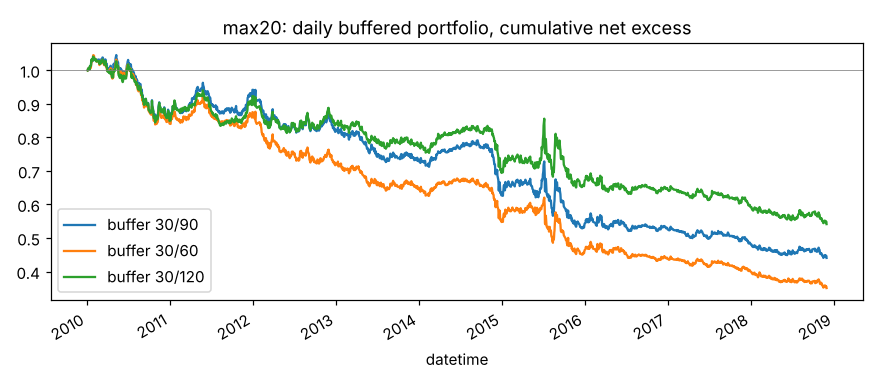
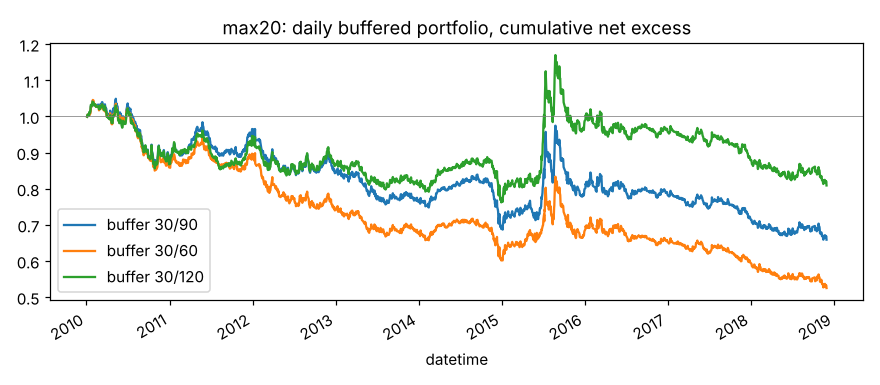
模拟组合的超额改为相对第二天能买进的股票，全体基准作参考
第二天涨停买不进的股票之后一天平均收益很高，算进基准会让基准每年高出约 4.7 个百分点，
对所有因子都一样。筛选门槛改用"能买进的股票"做基准；"全部有打分的股票"作为参考列。
重跑后的试验计入日志（配置多了 benchmark 字段）。

Claude-Session: https://claude.ai/code/session_016iw6nS8LHZX8bQ4bwCVjY3

diff --git a/scripts/run_single_factor.py b/scripts/run_single_factor.py
@@ -75,7 +75,7 @@ def main() -> None:
                 "single_factor",
                 {"factor": f.name, "expr": f.expr, "direction": res.direction, "market": args.market,
                  "segment": args.segment, "horizon": MAIN_HORIZON, "rule": rule.label,
-                 "neutralized": False, "data_version": _data_version()},
+                 "benchmark": "buyable", "neutralized": False, "data_version": _data_version()},
                 {"rank_ic": res.rank_ic[MAIN_HORIZON]["mean"], "t_nw": res.rank_ic[MAIN_HORIZON]["t_nw"],
                  **res.sim_summary[rule.label], "category": res.category},
             )
@@ -84,17 +84,18 @@ def main() -> None:
     summary.to_csv(out_dir / "summary.csv", float_format="%.6f")
     _write_index(summary, out_dir, context)
     print(summary[["category", f"rank_ic_{MAIN_HORIZON}d", f"t_nw_{MAIN_HORIZON}d", "sim_turnover",
-                   "sim_excess_ann", "sim_net_ann", "bottom_t"]].round(4).to_string())
+                   "sim_excess_ann", "sim_net_ann", "sim_net_ann_all", "bottom_t"]].round(4).to_string())
     print(f"试验日志里不同配置的单因子试验共 {count_unique(kind='single_factor')} 个")
 
 
 def _write_index(summary: pd.DataFrame, out_dir: Path, context: str) -> None:
     h = MAIN_HORIZON
     show = summary[["category", "direction", f"rank_ic_{h}d", f"icir_{h}d", f"t_nw_{h}d", "rank_ic_1d",
-                    "reversed_year_ratio", "monotonicity", "bottom_t", "sim_turnover", "sim_excess_ann", "sim_net_ann"]].copy()
+                    "reversed_year_ratio", "monotonicity", "bottom_t", "sim_turnover", "sim_excess_ann", "sim_net_ann",
+                    "sim_net_ann_all"]].copy()
     show.index = [f"[{n}]({n}.md)" for n in show.index]
     show.columns = ["分类", "方向", "RankIC", "ICIR", "t 值", "1天 RankIC", "反向年份占比", "单调性",
-                    "最低组 t 值", "日均换手", "年化超额", "扣成本后"]
+                    "最低组 t 值", "日均换手", "年化超额", "扣成本后", "扣成本后（全体基准）"]
     counts = summary["category"].value_counts()
     lines = [
         "# 单因子检验汇总",
@@ -110,8 +111,8 @@ def _write_index(summary: pd.DataFrame, out_dir: Path, context: str) -> None:
         "",
         show.to_markdown(floatfmt=".4f"),
         "",
-        f"日均换手、年化超额、扣成本后这三列来自缓冲 {PRIMARY_RULE.label} 的日频组合模拟；"
-        f"缓冲 {', '.join(r.label for r in COMPARISON_RULES)} 的结果在各因子的详细报告里。",
+        f"最后四列来自缓冲 {PRIMARY_RULE.label} 的日频组合模拟；缓冲 {', '.join(r.label for r in COMPARISON_RULES)} 的结果在各因子的详细报告里。",
+        "超额默认相对第二天能买进的股票（筛选门槛用这个）；最后一列相对所有有打分的股票，包括第二天涨停买不进的，作参考。",
         "",
     ]
     (out_dir / "README.md").write_text("\n".join(lines))

diff --git a/qt/simulate.py b/qt/simulate.py
@@ -9,6 +9,10 @@
 - 持有期间停牌、没有收益数据的，当天收益记为 0
 - 调出指数的股票当天卖出（数据里已经没有它这一行，按可以卖处理）
 
+超额有两种基准（见 docs/DECISIONS.md 变更记录）：
+- universe：当天有打分、且第二天能买进的股票等权平均。单因子筛选用这个，衡量"在买得到的股票里挑得准不准"
+- universe_all：当天所有有打分的股票等权平均，包括第二天涨停买不进的。作参考，更接近持有指数
+
 组合等权，不考虑权重漂移；最低 5 元佣金不计。这是因子检验用的近似，正式回测在第 5 个 PR。
 """
 
@@ -42,7 +46,7 @@ def simulate_buffer(
     can_sell: pd.Series,
     rule: BufferRule = PRIMARY_RULE,
 ) -> pd.DataFrame:
-    """返回逐日结果：portfolio、universe（有打分的股票等权平均）、excess、buys、sells、cost、net。
+    """返回逐日结果：portfolio、universe、universe_all、excess、excess_all、buys、sells、cost、net、net_all。
 
     score 越大越好；四个序列使用同一个 (datetime, instrument) 索引。
     """
@@ -70,13 +74,16 @@ def simulate_buffer(
 
         r = day["ret1"]
         portfolio = r.reindex(held).fillna(0.0).mean() if held else 0.0
-        universe = r.reindex(scored.index).mean()
+        universe = r.reindex(rank.index[buyable.to_numpy()]).mean()
+        universe_all = r.reindex(scored.index).mean()
         cost = (len(new) * buy_cost(d) + sells * sell_cost(d)) / rule.n_hold
-        rows.append((d, portfolio, universe, len(new), sells, cost))
+        rows.append((d, portfolio, universe, universe_all, len(new), sells, cost))
 
-    out = pd.DataFrame(rows, columns=["datetime", "portfolio", "universe", "buys", "sells", "cost"]).set_index("datetime")
-    out["excess"] = out["portfolio"] - out["universe"]
-    out["net"] = out["excess"] - out["cost"]
+    cols = ["datetime", "portfolio", "universe", "universe_all", "buys", "sells", "cost"]
+    out = pd.DataFrame(rows, columns=cols).set_index("datetime")
+    for suffix, base in (("", "universe"), ("_all", "universe_all")):
+        out[f"excess{suffix}"] = out["portfolio"] - out[base]
+        out[f"net{suffix}"] = out[f"excess{suffix}"] - out["cost"]
     return out
 
 

diff --git a/qt/report.py b/qt/report.py
@@ -94,6 +94,7 @@ def summary_row(res: FactorResult) -> dict:
         "sim_excess_ann": sim["excess_ann"],
         "sim_cost_ann": sim["cost_ann"],
         "sim_net_ann": sim["net_ann"],
+        "sim_net_ann_all": sim["net_ann_all"],
     }
     return row
 
@@ -117,8 +118,9 @@ def write_factor_report(res: FactorResult, factor: Factor, out_dir: Path, contex
 
     sim_table = pd.DataFrame(res.sim_summary).T
     sim_table.index = [f"缓冲 {k}" for k in sim_table.index]
-    sim_table = sim_table[["turnover", "excess_ann", "cost_ann", "net_ann", "net_t"]]
-    sim_table.columns = ["日均单边换手", "年化超额（扣成本前）", "年化成本", "年化超额（扣成本后）", "扣成本后 t 值"]
+    sim_table = sim_table[["turnover", "excess_ann", "cost_ann", "net_ann", "net_t", "net_ann_all"]]
+    sim_table.columns = ["日均单边换手", "年化超额（扣成本前）", "年化成本", "年化超额（扣成本后）", "扣成本后 t 值",
+                         "扣成本后（参考：全体基准）"]
 
     lines = [
         f"# {res.name}",
@@ -175,7 +177,8 @@ def write_factor_report(res: FactorResult, factor: Factor, out_dir: Path, contex
         "每天调仓，持仓 30 只等权；排名进前 30 才买，已持有的排名掉出缓冲线才卖。",
         "买不进（入场日停牌或涨停）跳过，卖不掉（入场日停牌或跌停）继续持有。",
         "成本：买入 0.125%，卖出佣金 + 印花税 + 滑点（docs/DECISIONS.md），最低 5 元佣金不计。",
-        "超额是相对当天有打分的全体股票等权平均，不是相对沪深300 指数。",
+        "超额默认相对当天有打分、且第二天能买进的股票等权平均（筛选门槛用这个）；",
+        "最后一列相对所有有打分的股票，包括第二天涨停买不进的，作参考。两者都不是相对沪深300 指数。",
         "",
         sim_table.to_markdown(floatfmt=".4f"),
         "",

diff --git a/qt/evaluate.py b/qt/evaluate.py
@@ -5,7 +5,8 @@
 - 日频 IC 和回归系数的标签互相重叠（5 天持有期，相邻两天有 4 天相同），所以 t 值用 Newey-West
   调整，滞后阶数取 持有期 - 1。
 - 分层每 5 个交易日一次、各期不重叠，只用来看信号质量和单调性。
-- 成本门槛用 qt/simulate.py 的日频缓冲组合（持仓 30、缓冲 30/90）。
+- 成本门槛用 qt/simulate.py 的日频缓冲组合（持仓 30、缓冲 30/90），超额相对第二天能买进的股票；
+  相对全部有打分股票的超额作参考。
 - 方向：先按方向把因子统一成"越大越好"，再算分层和组合。
 - IC、回归、分层只用能买入的样本；组合模拟另外处理买不进、卖不掉。
 """
@@ -116,6 +117,8 @@ def simulation_summary(sim: pd.DataFrame, rule: BufferRule) -> dict[str, float]:
         "cost_ann": sim["cost"].mean() * TRADING_DAYS,
         "net_ann": sim["net"].mean() * TRADING_DAYS,
         "net_t": newey_west_t(sim["net"], lag=0),
+        "excess_ann_all": sim["excess_all"].mean() * TRADING_DAYS,
+        "net_ann_all": sim["net_all"].mean() * TRADING_DAYS,
         "turnover": turnover(sim, rule.n_hold).mean(),
     }
 

diff --git a/tests/test_simulate.py b/tests/test_simulate.py
@@ -60,3 +60,13 @@ def test_costs_and_excess():
     assert sim.loc[d0, "excess"] == pytest.approx(0.03 - 0.01)
     assert sim.loc[d1, "net"] == pytest.approx(0.03 - 0.01 - sim.loc[d1, "cost"])
     assert turnover(sim, 1).tolist() == [1.0]
+
+
+def test_benchmark_excludes_unbuyable_by_default():
+    score, _, ones = _panel({"A": [3], "B": [2], "C": [1]})
+    ret = pd.Series([0.0, 0.01, 0.09], index=score.index)  # C 第二天涨停买不进，之后又涨 9%
+    can_buy = ones.copy()
+    can_buy.loc[(slice(None), "C")] = False
+    sim = simulate_buffer(score, ret, can_buy, ones, BufferRule(1, 1))
+    assert sim["universe"].iloc[0] == pytest.approx(0.005)
+    assert sim["universe_all"].iloc[0] == pytest.approx(0.1 / 3)

diff --git a/reports/single_factor/csi300_train/README.md b/reports/single_factor/csi300_train/README.md
@@ -1,7 +1,7 @@
 # 单因子检验汇总
 
 - 样本：csi300 历史成分，train 段 2010-01-01 ~ 2018-11-29（段尾去掉 21 个交易日），2166 个交易日；能买入的样本占 94.0%；未做行业和市值中性化
-- 结果：打分因子 0 个，排雷因子 1 个，淘汰 6 个
+- 结果：打分因子 3 个，排雷因子 0 个，淘汰 4 个
 - 主指标：5 天持有期 RankIC，t 值经 Newey-West 调整（滞后 4 阶）
 - 打分因子：t 值 > 3；方向反了的年份不超过一半；按实际交易规则（每日调仓、持仓 30、缓冲 30/90）扣成本后做多超额 > 0
 - 排雷因子：t 值 > 3；方向反了的年份不超过一半；最低组年化超额 < 0 且 t 值 < -3。用法是剔除得分最差的股票，不参与打分
@@ -9,14 +9,15 @@
 - 入场日收盘涨跌幅 ≥ 9.5% 视为买不进，≤ -9.5% 视为卖不掉；对 20% 涨跌停的创业板和科创板偏保守
 - 还没有 ST 标记，ST 股没有剔除（沪深300 里很少）
 
-|                               | 分类     |   方向 |   RankIC |   ICIR |   t 值 |   1天 RankIC |   反向年份占比 |   单调性 |   最低组 t 值 |   日均换手 |   年化超额 |   扣成本后 |
-|:------------------------------|:---------|-------:|---------:|-------:|-------:|-------------:|---------------:|---------:|--------------:|-----------:|-----------:|-----------:|
-| [rev20](rev20.md)             | 淘汰     |     -1 |   0.0310 | 0.1473 | 3.9496 |       0.0262 |         0.0000 |   1.0000 |       -1.7287 |     0.0752 |     0.0584 |    -0.0081 |
-| [amt_ratio20](amt_ratio20.md) | 淘汰     |     -1 |   0.0038 | 0.0269 | 0.8612 |       0.0184 |         0.3333 |  -0.6000 |       -0.0111 |     0.2868 |    -0.1045 |    -0.3576 |
-| [vol20](vol20.md)             | 淘汰     |     -1 |   0.0288 | 0.1343 | 3.6079 |       0.0144 |         0.2222 |   0.1000 |       -0.7894 |     0.0165 |     0.0071 |    -0.0076 |
-| [max20](max20.md)             | 淘汰     |     -1 |   0.0309 | 0.1788 | 4.8362 |       0.0156 |         0.1111 |   0.4000 |       -2.1816 |     0.0362 |    -0.0568 |    -0.0889 |
-| [amihud20](amihud20.md)       | 淘汰     |      1 |   0.0081 | 0.0489 | 1.2364 |       0.0031 |         0.4444 |   0.7000 |       -1.1547 |     0.0074 |    -0.0299 |    -0.0365 |
-| [high52w](high52w.md)         | 淘汰     |      1 |   0.0137 | 0.0585 | 1.5104 |      -0.0003 |         0.2222 |   0.9000 |       -0.1601 |     0.0283 |     0.0324 |     0.0074 |
-| [pv_corr20](pv_corr20.md)     | 排雷因子 |     -1 |   0.0382 | 0.2648 | 6.9796 |       0.0181 |         0.0000 |   1.0000 |       -4.0551 |     0.0619 |     0.0412 |    -0.0136 |
+|                               | 分类     |   方向 |   RankIC |   ICIR |   t 值 |   1天 RankIC |   反向年份占比 |   单调性 |   最低组 t 值 |   日均换手 |   年化超额 |   扣成本后 |   扣成本后（全体基准） |
+|:------------------------------|:---------|-------:|---------:|-------:|-------:|-------------:|---------------:|---------:|--------------:|-----------:|-----------:|-----------:|-----------------------:|
+| [rev20](rev20.md)             | 打分因子 |     -1 |   0.0310 | 0.1473 | 3.9496 |       0.0262 |         0.0000 |   1.0000 |       -1.7287 |     0.0752 |     0.0990 |     0.0326 |                -0.0081 |
+| [amt_ratio20](amt_ratio20.md) | 淘汰     |     -1 |   0.0038 | 0.0269 | 0.8612 |       0.0184 |         0.3333 |  -0.6000 |       -0.0111 |     0.2868 |    -0.0607 |    -0.3137 |                -0.3576 |
+| [vol20](vol20.md)             | 打分因子 |     -1 |   0.0288 | 0.1343 | 3.6079 |       0.0144 |         0.2222 |   0.1000 |       -0.7894 |     0.0165 |     0.0531 |     0.0384 |                -0.0076 |
+| [max20](max20.md)             | 淘汰     |     -1 |   0.0309 | 0.1788 | 4.8362 |       0.0156 |         0.1111 |   0.4000 |       -2.1816 |     0.0362 |    -0.0101 |    -0.0422 |                -0.0889 |
+| [amihud20](amihud20.md)       | 淘汰     |      1 |   0.0081 | 0.0489 | 1.2364 |       0.0031 |         0.4444 |   0.7000 |       -1.1547 |     0.0074 |     0.0168 |     0.0102 |                -0.0365 |
+| [high52w](high52w.md)         | 淘汰     |      1 |   0.0137 | 0.0585 | 1.5104 |      -0.0003 |         0.2222 |   0.9000 |       -0.1601 |     0.0283 |     0.0763 |     0.0512 |                 0.0074 |
+| [pv_corr20](pv_corr20.md)     | 打分因子 |     -1 |   0.0382 | 0.2648 | 6.9796 |       0.0181 |         0.0000 |   1.0000 |       -4.0551 |     0.0619 |     0.0879 |     0.0331 |                -0.0136 |
 
-日均换手、年化超额、扣成本后这三列来自缓冲 30/90 的日频组合模拟；缓冲 30/60, 30/120 的结果在各因子的详细报告里。
+最后四列来自缓冲 30/90 的日频组合模拟；缓冲 30/60, 30/120 的结果在各因子的详细报告里。
+超额默认相对第二天能买进的股票（筛选门槛用这个）；最后一列相对所有有打分的股票，包括第二天涨停买不进的，作参考。

diff --git a/reports/single_factor/csi300_train/pv_corr20.md b/reports/single_factor/csi300_train/pv_corr20.md
@@ -6,13 +6,13 @@
 - 方向：-1（越小越好），依据：训练段实际 RankIC
 - 样本：csi300 历史成分，train 段 2010-01-01 ~ 2018-11-29（段尾去掉 21 个交易日），2166 个交易日；能买入的样本占 94.0%；未做行业和市值中性化
 
-## 结论：排雷因子
+## 结论：打分因子
 
 作为打分因子：
 
 - ✅ t 值 > 3
 - ✅ 方向反了的年份不超过一半
-- ❌ 按实际交易规则（30/90）扣成本后做多超额 > 0
+- ✅ 按实际交易规则（30/90）扣成本后做多超额 > 0
 
 作为排雷因子：
 
@@ -79,12 +79,13 @@
 每天调仓，持仓 30 只等权；排名进前 30 才买，已持有的排名掉出缓冲线才卖。
 买不进（入场日停牌或涨停）跳过，卖不掉（入场日停牌或跌停）继续持有。
 成本：买入 0.125%，卖出佣金 + 印花税 + 滑点（docs/DECISIONS.md），最低 5 元佣金不计。
-超额是相对当天有打分的全体股票等权平均，不是相对沪深300 指数。
+超额默认相对当天有打分、且第二天能买进的股票等权平均（筛选门槛用这个）；
+最后一列相对所有有打分的股票，包括第二天涨停买不进的，作参考。两者都不是相对沪深300 指数。
 
-|             |   日均单边换手 |   年化超额（扣成本前） |   年化成本 |   年化超额（扣成本后） |   扣成本后 t 值 |
-|:------------|---------------:|-----------------------:|-----------:|-----------------------:|----------------:|
-| 缓冲 30/90  |         0.0619 |                 0.0412 |     0.0547 |                -0.0136 |         -0.4137 |
-| 缓冲 30/60  |         0.0834 |                 0.0418 |     0.0736 |                -0.0318 |         -0.9628 |
-| 缓冲 30/120 |         0.0501 |                 0.0561 |     0.0443 |                 0.0118 |          0.3718 |
+|             |   日均单边换手 |   年化超额（扣成本前） |   年化成本 |   年化超额（扣成本后） |   扣成本后 t 值 |   扣成本后（参考：全体基准） |
+|:------------|---------------:|-----------------------:|-----------:|-----------------------:|----------------:|-----------------------------:|
+| 缓冲 30/90  |         0.0619 |                 0.0879 |     0.0547 |                 0.0331 |          1.0066 |                      -0.0136 |
+| 缓冲 30/60  |         0.0834 |                 0.0885 |     0.0736 |                 0.0149 |          0.4525 |                      -0.0318 |
+| 缓冲 30/120 |         0.0501 |                 0.1028 |     0.0443 |                 0.0585 |          1.7976 |                       0.0118 |
 
 ![sim](img/pv_corr20_sim.png)

diff --git a/reports/single_factor/csi300_train/rev20.md b/reports/single_factor/csi300_train/rev20.md
@@ -6,13 +6,13 @@
 - 方向：-1（越小越好），依据：文献
 - 样本：csi300 历史成分，train 段 2010-01-01 ~ 2018-11-29（段尾去掉 21 个交易日），2166 个交易日；能买入的样本占 94.0%；未做行业和市值中性化
 
-## 结论：淘汰
+## 结论：打分因子
 
 作为打分因子：
 
 - ✅ t 值 > 3
 - ✅ 方向反了的年份不超过一半
-- ❌ 按实际交易规则（30/90）扣成本后做多超额 > 0
+- ✅ 按实际交易规则（30/90）扣成本后做多超额 > 0
 
 作为排雷因子：
 
@@ -79,12 +79,13 @@
 每天调仓，持仓 30 只等权；排名进前 30 才买，已持有的排名掉出缓冲线才卖。
 买不进（入场日停牌或涨停）跳过，卖不掉（入场日停牌或跌停）继续持有。
 成本：买入 0.125%，卖出佣金 + 印花税 + 滑点（docs/DECISIONS.md），最低 5 元佣金不计。
-超额是相对当天有打分的全体股票等权平均，不是相对沪深300 指数。
+超额默认相对当天有打分、且第二天能买进的股票等权平均（筛选门槛用这个）；
+最后一列相对所有有打分的股票，包括第二天涨停买不进的，作参考。两者都不是相对沪深300 指数。
 
-|             |   日均单边换手 |   年化超额（扣成本前） |   年化成本 |   年化超额（扣成本后） |   扣成本后 t 值 |
-|:------------|---------------:|-----------------------:|-----------:|-----------------------:|----------------:|
-| 缓冲 30/90  |         0.0752 |                 0.0584 |     0.0664 |                -0.0081 |         -0.2114 |
-| 缓冲 30/60  |         0.0996 |                 0.0273 |     0.0879 |                -0.0606 |         -1.5637 |
-| 缓冲 30/120 |         0.0621 |                 0.0566 |     0.0549 |                 0.0017 |          0.0472 |
+|             |   日均单边换手 |   年化超额（扣成本前） |   年化成本 |   年化超额（扣成本后） |   扣成本后 t 值 |   扣成本后（参考：全体基准） |
+|:------------|---------------:|-----------------------:|-----------:|-----------------------:|----------------:|-----------------------------:|
+| 缓冲 30/90  |         0.0752 |                 0.0990 |     0.0664 |                 0.0326 |          0.8135 |                      -0.0081 |
+| 缓冲 30/60  |         0.0996 |                 0.0679 |     0.0879 |                -0.0200 |         -0.4990 |                      -0.0606 |
+| 缓冲 30/120 |         0.0621 |                 0.0973 |     0.0549 |                 0.0424 |          1.1081 |                       0.0017 |
 
 ![sim](img/rev20_sim.png)

diff --git a/reports/single_factor/csi300_train/vol20.md b/reports/single_factor/csi300_train/vol20.md
@@ -6,13 +6,13 @@
 - 方向：-1（越小越好），依据：文献
 - 样本：csi300 历史成分，train 段 2010-01-01 ~ 2018-11-29（段尾去掉 21 个交易日），2166 个交易日；能买入的样本占 94.0%；未做行业和市值中性化
 
-## 结论：淘汰
+## 结论：打分因子
 
 作为打分因子：
 
 - ✅ t 值 > 3
 - ✅ 方向反了的年份不超过一半
-- ❌ 按实际交易规则（30/90）扣成本后做多超额 > 0
+- ✅ 按实际交易规则（30/90）扣成本后做多超额 > 0
 
 作为排雷因子：
 
@@ -79,12 +79,13 @@
 每天调仓，持仓 30 只等权；排名进前 30 才买，已持有的排名掉出缓冲线才卖。
 买不进（入场日停牌或涨停）跳过，卖不掉（入场日停牌或跌停）继续持有。
 成本：买入 0.125%，卖出佣金 + 印花税 + 滑点（docs/DECISIONS.md），最低 5 元佣金不计。
-超额是相对当天有打分的全体股票等权平均，不是相对沪深300 指数。
+超额默认相对当天有打分、且第二天能买进的股票等权平均（筛选门槛用这个）；
+最后一列相对所有有打分的股票，包括第二天涨停买不进的，作参考。两者都不是相对沪深300 指数。
 
-|             |   日均单边换手 |   年化超额（扣成本前） |   年化成本 |   年化超额（扣成本后） |   扣成本后 t 值 |
-|:------------|---------------:|-----------------------:|-----------:|-----------------------:|----------------:|
-| 缓冲 30/90  |         0.0165 |                 0.0071 |     0.0147 |                -0.0076 |         -0.1575 |
-| 缓冲 30/60  |         0.0266 |                -0.0061 |     0.0236 |                -0.0297 |         -0.6136 |
-| 缓冲 30/120 |         0.0113 |                 0.0108 |     0.0101 |                 0.0007 |          0.0140 |
+|             |   日均单边换手 |   年化超额（扣成本前） |   年化成本 |   年化超额（扣成本后） |   扣成本后 t 值 |   扣成本后（参考：全体基准） |
+|:------------|---------------:|-----------------------:|-----------:|-----------------------:|----------------:|-----------------------------:|
+| 缓冲 30/90  |         0.0165 |                 0.0531 |     0.0147 |                 0.0384 |          0.8140 |                      -0.0076 |
+| 缓冲 30/60  |         0.0266 |                 0.0398 |     0.0236 |                 0.0162 |          0.3414 |                      -0.0297 |
+| 缓冲 30/120 |         0.0113 |                 0.0568 |     0.0101 |                 0.0466 |          1.0032 |                       0.0007 |
 
 ![sim](img/vol20_sim.png)

diff --git a/reports/single_factor/csi300_train/amihud20.md b/reports/single_factor/csi300_train/amihud20.md
@@ -12,7 +12,7 @@
 
 - ❌ t 值 > 3
 - ✅ 方向反了的年份不超过一半
-- ❌ 按实际交易规则（30/90）扣成本后做多超额 > 0
+- ✅ 按实际交易规则（30/90）扣成本后做多超额 > 0
 
 作为排雷因子：
 
@@ -79,12 +79,13 @@
 每天调仓，持仓 30 只等权；排名进前 30 才买，已持有的排名掉出缓冲线才卖。
 买不进（入场日停牌或涨停）跳过，卖不掉（入场日停牌或跌停）继续持有。
 成本：买入 0.125%，卖出佣金 + 印花税 + 滑点（docs/DECISIONS.md），最低 5 元佣金不计。
-超额是相对当天有打分的全体股票等权平均，不是相对沪深300 指数。
+超额默认相对当天有打分、且第二天能买进的股票等权平均（筛选门槛用这个）；
+最后一列相对所有有打分的股票，包括第二天涨停买不进的，作参考。两者都不是相对沪深300 指数。
 
-|             |   日均单边换手 |   年化超额（扣成本前） |   年化成本 |   年化超额（扣成本后） |   扣成本后 t 值 |
-|:------------|---------------:|-----------------------:|-----------:|-----------------------:|----------------:|
-| 缓冲 30/90  |         0.0074 |                -0.0299 |     0.0067 |                -0.0365 |         -1.3564 |
-| 缓冲 30/60  |         0.0114 |                -0.0369 |     0.0102 |                -0.0472 |         -1.6452 |
-| 缓冲 30/120 |         0.0059 |                -0.0366 |     0.0053 |                -0.0419 |         -1.5600 |
+|             |   日均单边换手 |   年化超额（扣成本前） |   年化成本 |   年化超额（扣成本后） |   扣成本后 t 值 |   扣成本后（参考：全体基准） |
+|:------------|---------------:|-----------------------:|-----------:|-----------------------:|----------------:|-----------------------------:|
+| 缓冲 30/90  |         0.0074 |                 0.0168 |     0.0067 |                 0.0102 |          0.3475 |                      -0.0365 |
+| 缓冲 30/60  |         0.0114 |                 0.0098 |     0.0102 |                -0.0005 |         -0.0152 |                      -0.0472 |
+| 缓冲 30/120 |         0.0059 |                 0.0101 |     0.0053 |                 0.0048 |          0.1641 |                      -0.0419 |
 
 ![sim](img/amihud20_sim.png)

diff --git a/reports/single_factor/csi300_train/amt_ratio20.md b/reports/single_factor/csi300_train/amt_ratio20.md
@@ -79,12 +79,13 @@
 每天调仓，持仓 30 只等权；排名进前 30 才买，已持有的排名掉出缓冲线才卖。
 买不进（入场日停牌或涨停）跳过，卖不掉（入场日停牌或跌停）继续持有。
 成本：买入 0.125%，卖出佣金 + 印花税 + 滑点（docs/DECISIONS.md），最低 5 元佣金不计。
-超额是相对当天有打分的全体股票等权平均，不是相对沪深300 指数。
+超额默认相对当天有打分、且第二天能买进的股票等权平均（筛选门槛用这个）；
+最后一列相对所有有打分的股票，包括第二天涨停买不进的，作参考。两者都不是相对沪深300 指数。
 
-|             |   日均单边换手 |   年化超额（扣成本前） |   年化成本 |   年化超额（扣成本后） |   扣成本后 t 值 |
-|:------------|---------------:|-----------------------:|-----------:|-----------------------:|----------------:|
-| 缓冲 30/90  |         0.2868 |                -0.1045 |     0.2530 |                -0.3576 |        -12.6659 |
-| 缓冲 30/60  |         0.3825 |                -0.1014 |     0.3374 |                -0.4387 |        -15.1536 |
-| 缓冲 30/120 |         0.2216 |                -0.0993 |     0.1955 |                -0.2947 |        -10.7165 |
+|             |   日均单边换手 |   年化超额（扣成本前） |   年化成本 |   年化超额（扣成本后） |   扣成本后 t 值 |   扣成本后（参考：全体基准） |
+|:------------|---------------:|-----------------------:|-----------:|-----------------------:|----------------:|-----------------------------:|
+| 缓冲 30/90  |         0.2868 |                -0.0607 |     0.2530 |                -0.3137 |        -10.3492 |                      -0.3576 |
+| 缓冲 30/60  |         0.3825 |                -0.0575 |     0.3374 |                -0.3949 |        -13.5051 |                      -0.4387 |
+| 缓冲 30/120 |         0.2216 |                -0.0554 |     0.1955 |                -0.2509 |         -8.4200 |                      -0.2947 |
 
 ![sim](img/amt_ratio20_sim.png)

diff --git a/reports/single_factor/csi300_train/high52w.md b/reports/single_factor/csi300_train/high52w.md
@@ -79,12 +79,13 @@
 每天调仓，持仓 30 只等权；排名进前 30 才买，已持有的排名掉出缓冲线才卖。
 买不进（入场日停牌或涨停）跳过，卖不掉（入场日停牌或跌停）继续持有。
 成本：买入 0.125%，卖出佣金 + 印花税 + 滑点（docs/DECISIONS.md），最低 5 元佣金不计。
-超额是相对当天有打分的全体股票等权平均，不是相对沪深300 指数。
+超额默认相对当天有打分、且第二天能买进的股票等权平均（筛选门槛用这个）；
+最后一列相对所有有打分的股票，包括第二天涨停买不进的，作参考。两者都不是相对沪深300 指数。
 
-|             |   日均单边换手 |   年化超额（扣成本前） |   年化成本 |   年化超额（扣成本后） |   扣成本后 t 值 |
-|:------------|---------------:|-----------------------:|-----------:|-----------------------:|----------------:|
-| 缓冲 30/90  |         0.0283 |                 0.0324 |     0.0251 |                 0.0074 |          0.1533 |
-| 缓冲 30/60  |         0.0491 |                 0.0070 |     0.0434 |                -0.0364 |         -0.7148 |
-| 缓冲 30/120 |         0.0186 |                 0.0641 |     0.0166 |                 0.0475 |          1.0266 |
+|             |   日均单边换手 |   年化超额（扣成本前） |   年化成本 |   年化超额（扣成本后） |   扣成本后 t 值 |   扣成本后（参考：全体基准） |
+|:------------|---------------:|-----------------------:|-----------:|-----------------------:|----------------:|-----------------------------:|
+| 缓冲 30/90  |         0.0283 |                 0.0763 |     0.0251 |                 0.0512 |          1.0820 |                       0.0074 |
+| 缓冲 30/60  |         0.0491 |                 0.0509 |     0.0434 |                 0.0075 |          0.1490 |                      -0.0364 |
+| 缓冲 30/120 |         0.0186 |                 0.1079 |     0.0166 |                 0.0914 |          1.9724 |                       0.0475 |
 
 ![sim](img/high52w_sim.png)
